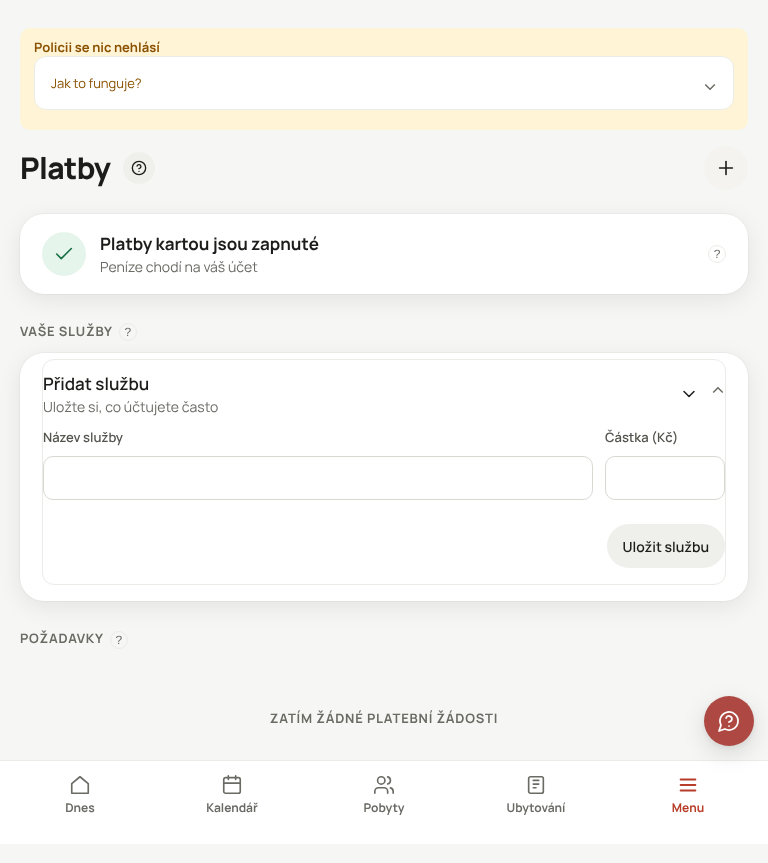
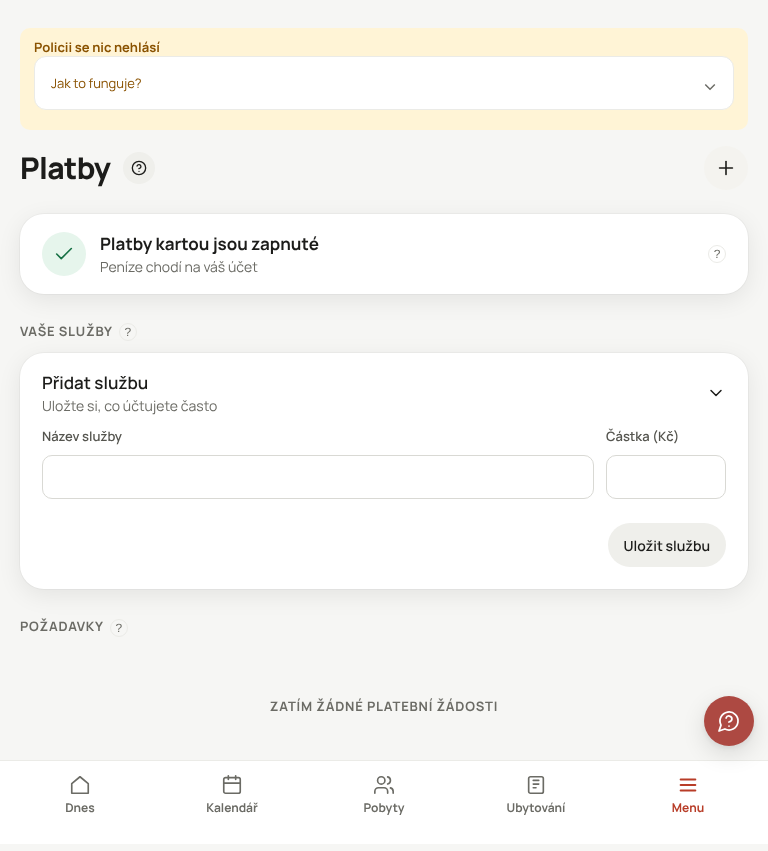
Payments: flatten the Add a service row (no inner card, single chevron, fields inside)
Claude-Session: https://claude.ai/code/session_01Cjmb7YLMkbQ6VkCY4Rqa8r

diff --git a/App/app/static/app2.css b/App/app/static/app2.css
@@ -2380,6 +2380,7 @@ body.v2 .payments-row+.payments-row,body.v2 .payments-row+.payments-add{border-t
 body.v2 .payments-row form,body.v2 .payments-acts form{margin:0}body.v2 .payments-mini{display:inline-flex;align-items:center;min-height:44px;padding:0 16px;border-radius:999px;border:1.5px solid var(--ink);background:#fff;color:var(--ink);font:inherit;font-size:14px;font-weight:700;white-space:nowrap;cursor:pointer}
 body.v2 .payments-add>summary{list-style:none;cursor:pointer}body.v2 .payments-add>summary::-webkit-details-marker{display:none}
 body.v2 .payments-add[open]>summary svg{transform:rotate(90deg)}body.v2 .payments-add-form{padding:0 0 16px}
+body.v2 .payments-add{background:none;border:0;border-radius:0;margin:0}body.v2 .payments-add>summary{padding:12px 0;min-height:56px}body.v2 .payments-add>summary::before,body.v2 .payments-add>summary::after{content:none}body.v2 .payments-add .ui-field input{width:100%;box-sizing:border-box}
 body.v2 .payments-add-grid{display:grid;grid-template-columns:minmax(0,1fr) 120px;gap:12px}body.v2 .payments-add-form .ui-form-actions{display:flex;margin-top:12px}
 body.v2 .payments-page .card.stay{display:flex;flex-wrap:wrap;align-items:center;gap:12px 16px;padding:16px;margin:0 0 14px}body.v2 .payments-page .card.stay .in{flex:1;min-width:0;display:flex;flex-direction:column;align-items:flex-start}
 body.v2 .payments-page .card.stay .in b{font-size:17px;font-weight:700;max-width:100%;white-space:nowrap;overflow:hidden;text-overflow:ellipsis}body.v2 .payments-page .card.stay .in small{color:var(--ink3);font-size:14px}

diff --git a/App/app/templates/base.html b/App/app/templates/base.html
@@ -19,7 +19,7 @@
   <link rel="preload" href="/static/fonts/Manrope-latin.woff2?v=20261101-0495" as="font" type="font/woff2" crossorigin>
   {% if v2 | default(false) %}
   <link rel="stylesheet" data-turbo-track="reload" href="/static/tokens.css?v=20261103-0920">
-  <link rel="stylesheet" data-turbo-track="reload" href="/static/app2.css?v=20261104-0946f">
+  <link rel="stylesheet" data-turbo-track="reload" href="/static/app2.css?v=20261104-addsvc">
   {% if show_nav | default(true) %}<link rel="stylesheet" data-turbo-track="reload" href="/static/command.css?v=20261103-0935">{% endif %}
   {% else %}
   <link rel="stylesheet" data-turbo-track="reload" href="/static/tokens.css?v=20261103-0920">
